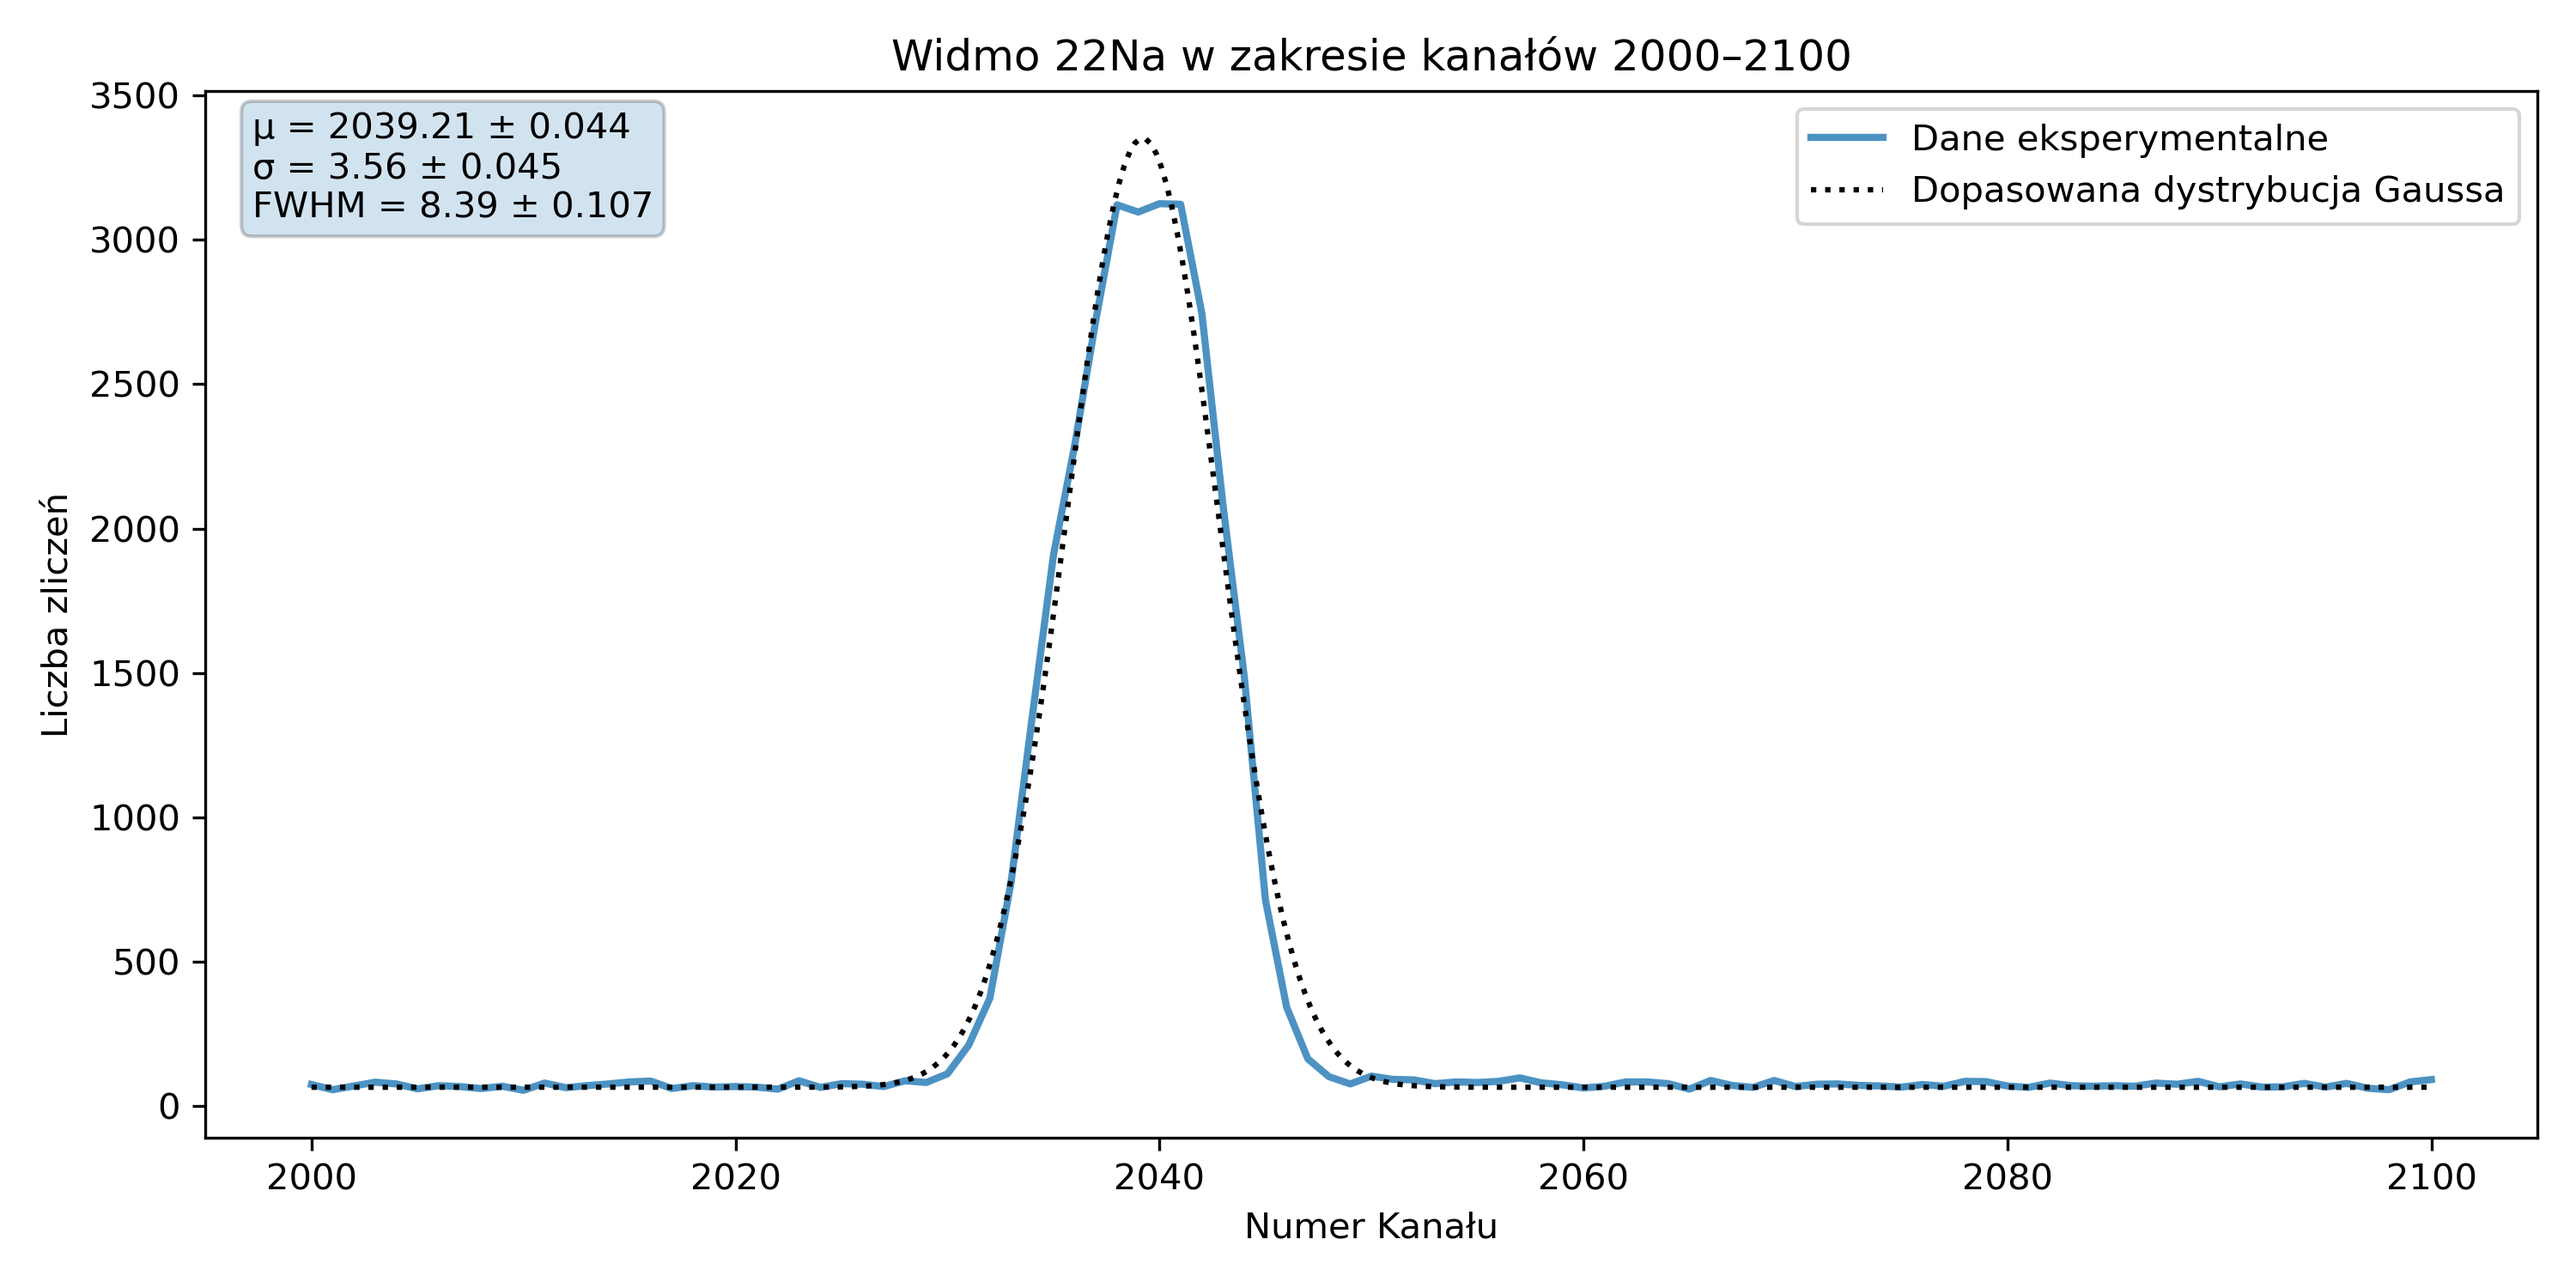
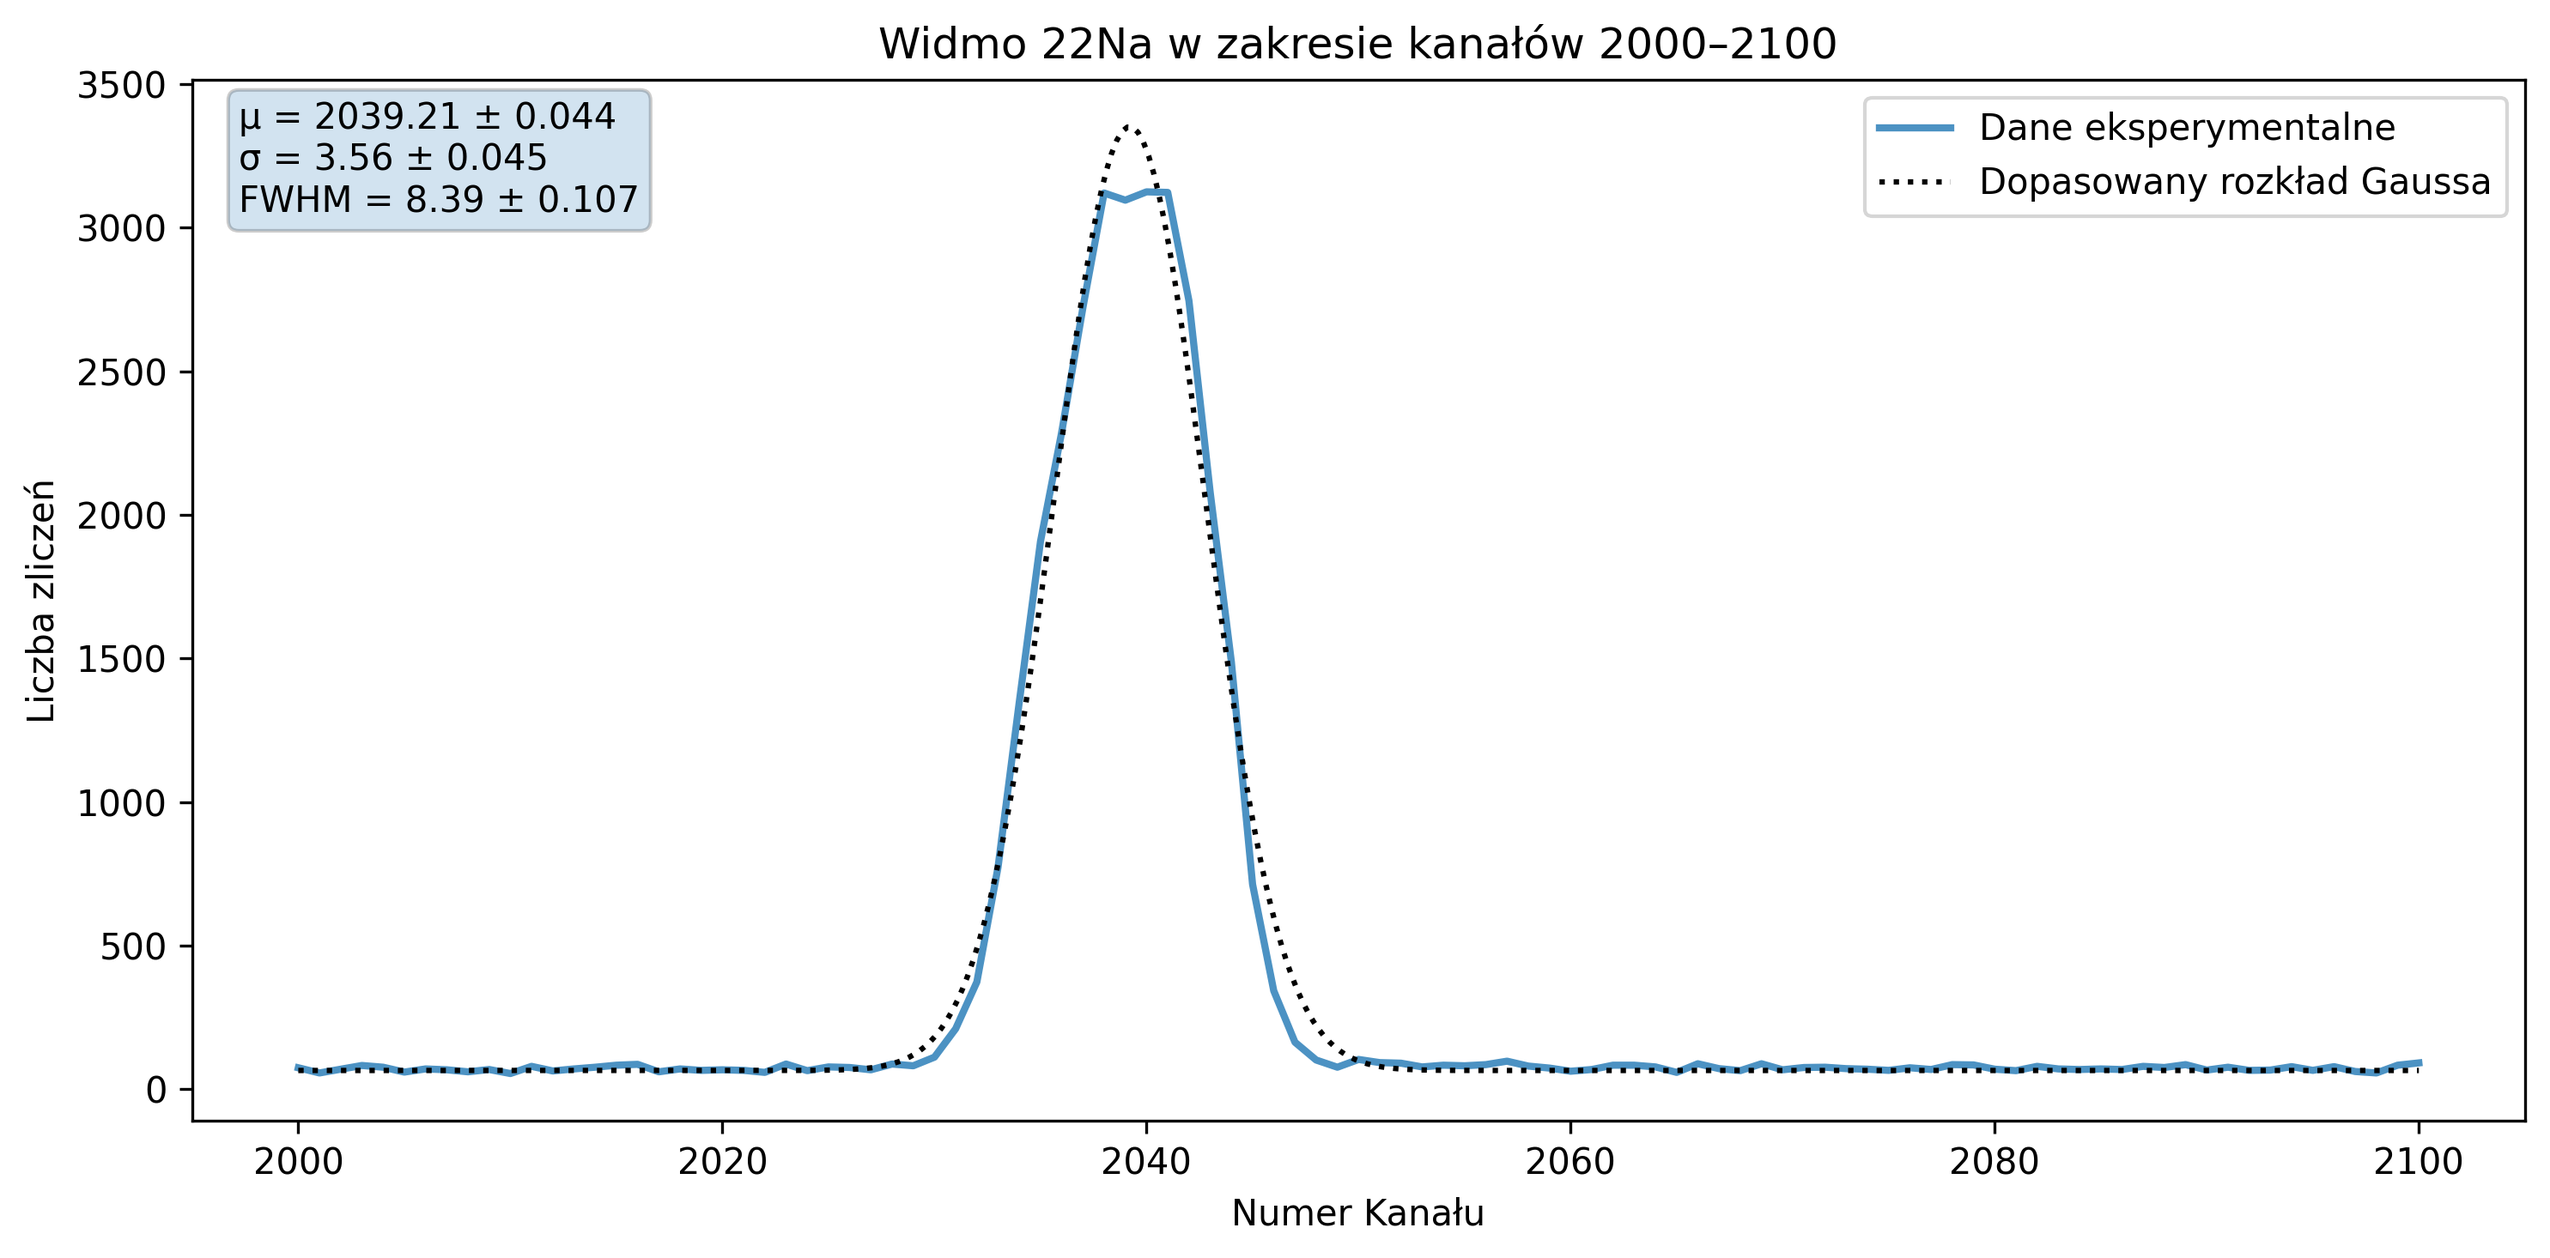
mhbk

diff --git a/gen_figure.py b/gen_figure.py
@@ -2,6 +2,18 @@ import numpy as np
 import matplotlib.pyplot as plt
 from scipy.optimize import curve_fit
 
+filename = "J12_22Na.lst.lst"     # change to your file
+Title = "22Na"
+if len(Title) == 0:
+    Title = 'output'
+do_fit =1
+save_fig = 1
+point = 2050
+delta = 50
+a = point - delta
+b = point + delta
+
+
 def read_lst_data(filename):
     x_vals = []
     y_vals = []
@@ -73,16 +85,6 @@ def fit_gaussian(x, y, a, b):
 
 
 # ---------------- MAIN SCRIPT ----------------
-filename = "J12_137Cs.lst.lst"     # change to your file
-Title = "137Cs"
-if len(Title) == 0:
-    Title = 'output'
-do_fit =0
-save_fig = 0
-point = 1558
-delta = 100
-a = point - delta
-b = point + delta
 
 x, y = read_lst_data(filename)
 
@@ -119,7 +121,7 @@ if do_fit:
         # Smooth Gaussian line
         x_smooth = np.linspace(a, b, 400)
         y_smooth = gaussian(x_smooth, *params)
-        plt.plot(x_smooth, y_smooth, 'k:', label="Dopasowana dystrybucja Gaussa")
+        plt.plot(x_smooth, y_smooth, 'k:', label="Dopasowany rozkład Gaussa")
 
         # Text box
         fit_text = (
